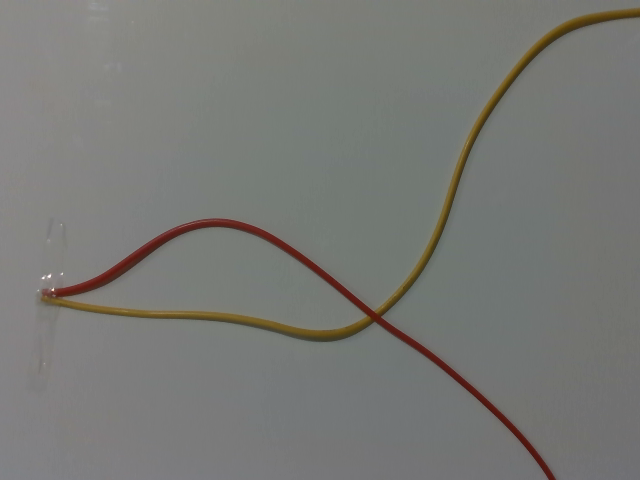
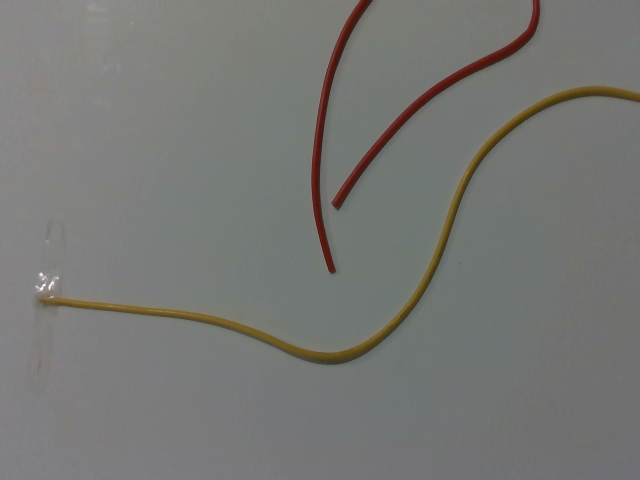
Fixing angle

Changed region(s): [[0.0625, 0.0, 1.0, 0.9062], [0.8125, 0.9062, 0.875, 1.0]]

diff --git a/scripts/my_franka.py b/scripts/my_franka.py
@@ -1,5 +1,6 @@
 from math import atan2
 import time
+from tkinter.messagebox import NO
 import numpy as np
 from autolab_core import RigidTransform
 from frankapy import FrankaArm
@@ -12,11 +13,14 @@ GRIPPER_GRASP = 0
 GRIPPER_UNGRASP = 1
 GRIPPER_NONE = 2
 
+ANGLE_WRAP = 0
+ANGLE_CLIP = 1
+
 
 class MyFranka:
     def __init__(self):
         self.time_per_move = 3
-        self.small_z_offset = -0.005
+        self.small_z_offset = -0.025
         self.fa = FrankaArm()
         # transformation from fingertip of ee to center of ee
         self.T_ee_et = np.eye(4)
@@ -82,11 +86,38 @@ class MyFranka:
         print(p)
         return p
 
+    def go_to_vec(self, theta):
+        tf_w_ee = self.get_pose()
+        T_w_et = np.eye(4)
+        T_w_et[:3, 3] = copy.deepcopy(tf_w_ee["t"])
+        T_w_et[:3, :3] = tf_w_ee["R"]
+        r_ee0_ee1 = R.from_euler("zyx", [theta, 0, 0]).as_matrix()
+        dT = np.eye(4)
+        dT[:3, :3] = r_ee0_ee1
+        T_w_et = np.matmul(T_w_et, dT)
+        home_pose = {
+            "R": T_w_et[:3, :3],
+            "t": T_w_et[:3, 3],
+        }
+        self.goto_pose(home_pose, sleep=self.time_per_move, use_impedance=False)
+
     def goto_point_and_vec(
-        self, point_c, vec_c_3d, manipulate_gripper=GRIPPER_NONE
+        self,
+        point_c,
+        vec_c_3d,
+        tf_w_ee=None,
+        manipulate_gripper=GRIPPER_NONE,
+        angle_mode=ANGLE_WRAP,
+        change_angle=False,
     ):
+        """``tf_w_ee``: if pass in a pose dict, the function will use this as reference
+        instead of the current ee and camera pose in world frame
+
+        ``change_angle``: if true, the pointing direction will be the vector direction + PI.
+        Then it will further be wrapped or clipped, depending on ``angle_mode``"""
         # transform point to world frame
-        tf_w_ee = self.get_pose()  # actually is tf_w_et
+        if tf_w_ee is None:  # use the current ee and camera pose as reference
+            tf_w_ee = self.get_pose()  # actually is tf_w_et
         T_w_ee = np.eye(4)
         T_w_ee[:3, :3] = tf_w_ee["R"]
         T_w_ee[:3, 3] = tf_w_ee["t"]
@@ -111,10 +142,21 @@ class MyFranka:
         T_w_et[:3, 3] = t_w_et
         r_w_ee0 = R.from_euler("zyx", [0, 0, np.pi])
         angle = -atan2(vec_w[1], vec_w[0])
-        if angle > np.pi / 2:
-            angle -= np.pi
-        if angle < -np.pi / 2:
+        if change_angle is True:  # flip vector direction
             angle += np.pi
+            if angle > np.pi:
+                angle -= 2 * np.pi
+        angle_changed = False
+        if angle_mode == ANGLE_WRAP:
+            if angle > np.pi / 2:
+                angle -= np.pi
+                angle_changed = True
+            elif angle < -np.pi / 2:
+                angle += np.pi
+                angle_changed = True
+        elif angle_mode == ANGLE_CLIP:
+            angle = np.clip(angle, -np.pi / 2, np.pi / 2)
+            angle_changed = True
         r_ee0_et = R.from_euler("zyx", [angle, 0, 0])
         R_w_et = np.matmul(r_w_ee0.as_matrix(), r_ee0_et.as_matrix())
         T_w_et[:3, :3] = R_w_et
@@ -130,12 +172,18 @@ class MyFranka:
             self.open_gripper()
         else:
             self.goto_pose(p, sleep=self.time_per_move, use_impedance=False)
+        return angle_changed
 
     def exe_action(self, action: Action):
-
+        # assume we're at capture pose
+        tf_w_ee = self.get_pose()
         # grasp action.pick_3d
-        self.goto_point_and_vec(
-            action.pick_3d, action.pick_vec_3d, manipulate_gripper=GRIPPER_GRASP
+        angle_changed = self.goto_point_and_vec(
+            action.pick_3d,
+            action.pick_vec_3d,
+            tf_w_ee=tf_w_ee,
+            manipulate_gripper=GRIPPER_GRASP,
+            angle_mode=ANGLE_WRAP,
         )
         # lift to action.z
         curr_pose = self.get_pose()
@@ -148,15 +196,25 @@ class MyFranka:
         # move to a point above action.place_3d, with height z
         print("place_3d: ", action.place_3d)
         self.goto_point_and_vec(
-            action.place_3d + [0, 0, action.z],
+            action.place_3d + [0, 0, -action.z],
             action.place_vec_3d,
+            tf_w_ee=tf_w_ee,
             manipulate_gripper=GRIPPER_NONE,
+            change_angle=angle_changed,
+            angle_mode=ANGLE_CLIP,
         )
         # lower to table and ungrasp
         self.goto_point_and_vec(
             action.place_3d,
             action.place_vec_3d,
+            tf_w_ee=tf_w_ee,
             manipulate_gripper=GRIPPER_UNGRASP,
+            change_angle=angle_changed,
+            angle_mode=ANGLE_CLIP,
         )
-        # home
-        self.goto_capture_pose()
+
+
+if __name__ == "__main__":
+    fa = MyFranka()
+    fa.reset_joint_and_gripper()
+    fa.go_to_vec(np.pi * 2 / 3)

diff --git a/scripts/cable_manipulation.py b/scripts/cable_manipulation.py
@@ -26,8 +26,8 @@ class CableManipulation:
     def preprocessImage(self, inputImage, targetColor):
         img = cv2.cvtColor(inputImage, cv2.COLOR_BGR2RGB)
 
-        blur_image = cv2.GaussianBlur(img, (3, 3), 0)
-        img_hsv = cv2.cvtColor(blur_image, cv2.COLOR_RGB2HSV)
+        # blur_image = cv2.GaussianBlur(img, (3, 3), 0)
+        img_hsv = cv2.cvtColor(img, cv2.COLOR_RGB2HSV)
         mask_oneColor = self.seg.segmentFirstColor(img_hsv, targetColor)
         result_image = cv2.bitwise_and(img, img, mask=mask_oneColor)
 

diff --git a/scripts/cable_simple_policy.py b/scripts/cable_simple_policy.py
@@ -480,8 +480,8 @@ class CableSimplePolicy:
             return
         # self.fa.reset_joint_and_gripper()
         self.fa.open_gripper()
-        self.fa.goto_capture_pose()
         while True:
+            self.fa.goto_capture_pose()
             vals = self.realsense.getFrameSet(skip_frames=5)
             if vals is None:
                 raise RuntimeError("Failed to get frameset")
